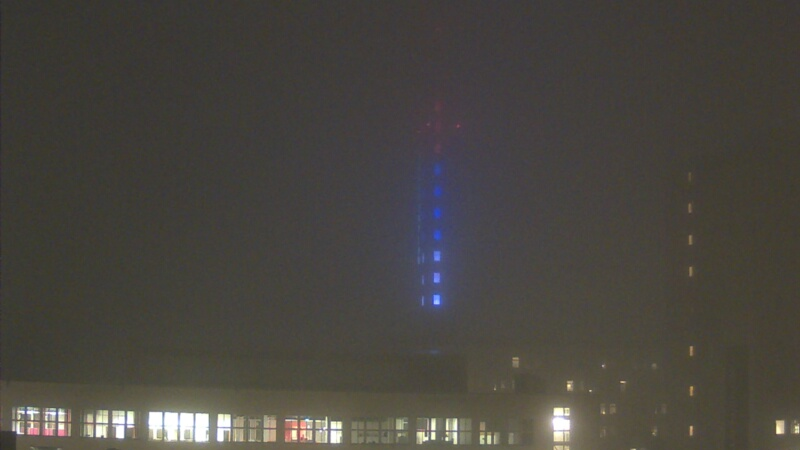
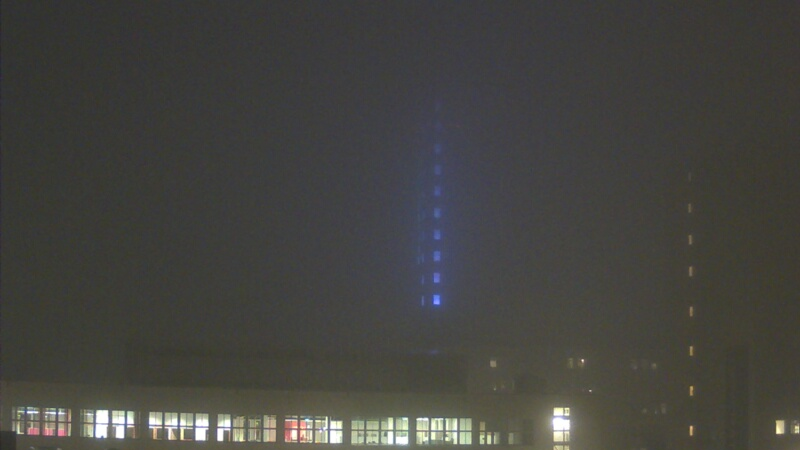
improved filters on image

diff --git a/controllers.py b/controllers.py
@@ -1,7 +1,7 @@
 import os
 import threading
 import time
-from PIL import Image, ImageFilter
+from PIL import Image, ImageFilter, ImageEnhance
 from models import PILampModel, PITowerModel
 
 
@@ -146,7 +146,13 @@ class PITowerController(threading.Thread):
         # Load image and get data
         self.image = Image.open(self.imageName)
 
-        # Mode filter image
+        # Gaussian blur image to smudge it
+        self.image = self.image.filter(ImageFilter.GaussianBlur(2))
+
+        # Exaggerate color
+        self.image = ImageEnhance.Color(self.image).enhance(10)
+
+        # Mode filter image to make it blocky
         self.image = self.image.filter(ImageFilter.ModeFilter(5))
 
         # Create PITowerModel and mark as changed
@@ -161,7 +167,7 @@ class PITowerController(threading.Thread):
             self.towerModelChanged(towerModel)
 
     def tick(self):
-        if self.ticks == self.tickTowerUpdate + 60/self.updateHZ or self.ticks == 0:
+        if self.ticks == self.tickTowerUpdate + 2/self.updateHZ or self.ticks == 0:
             self.tickTowerUpdate = self.ticks
             self.updateTower()
         self.updateLamp()  # lamp should update as often as possible

diff --git a/main.py b/main.py
@@ -18,7 +18,7 @@ def main():
     # Create and start controller on separate thread
     controllerThread = PITowerController("tower_temp.jpg", towerControllerQueue, lampControllerQueue)
     controllerThread.daemon = True
-    controllerThread.isSimulating = False
+    controllerThread.isSimulating = True
     controllerThread.start()
 
     if args.mode == "visual":
